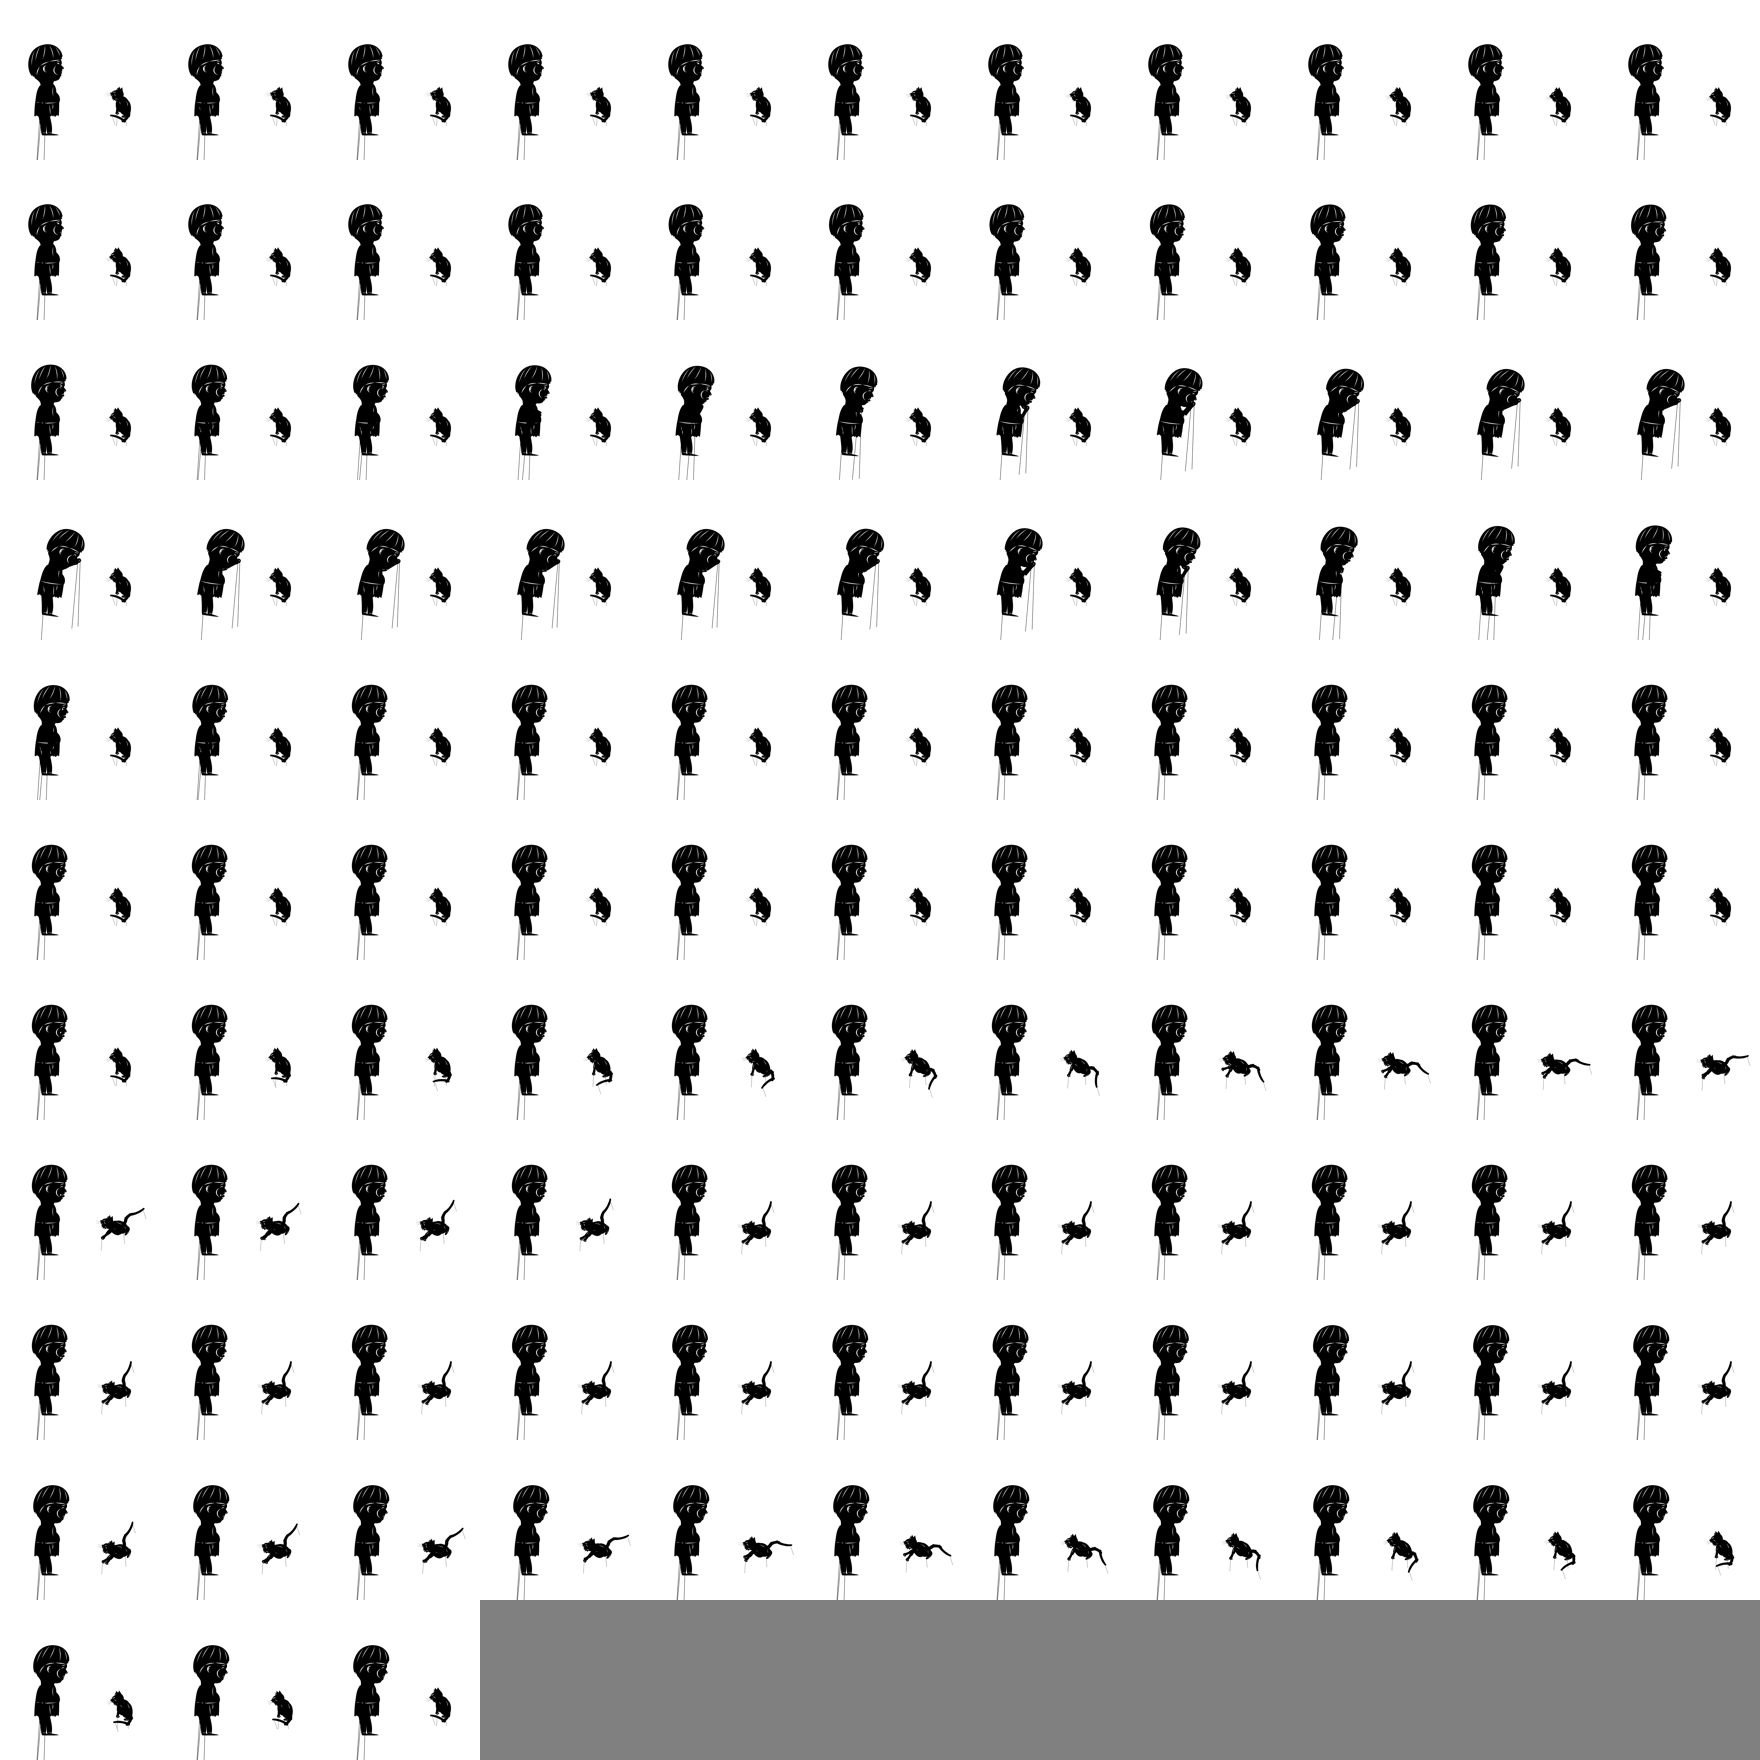
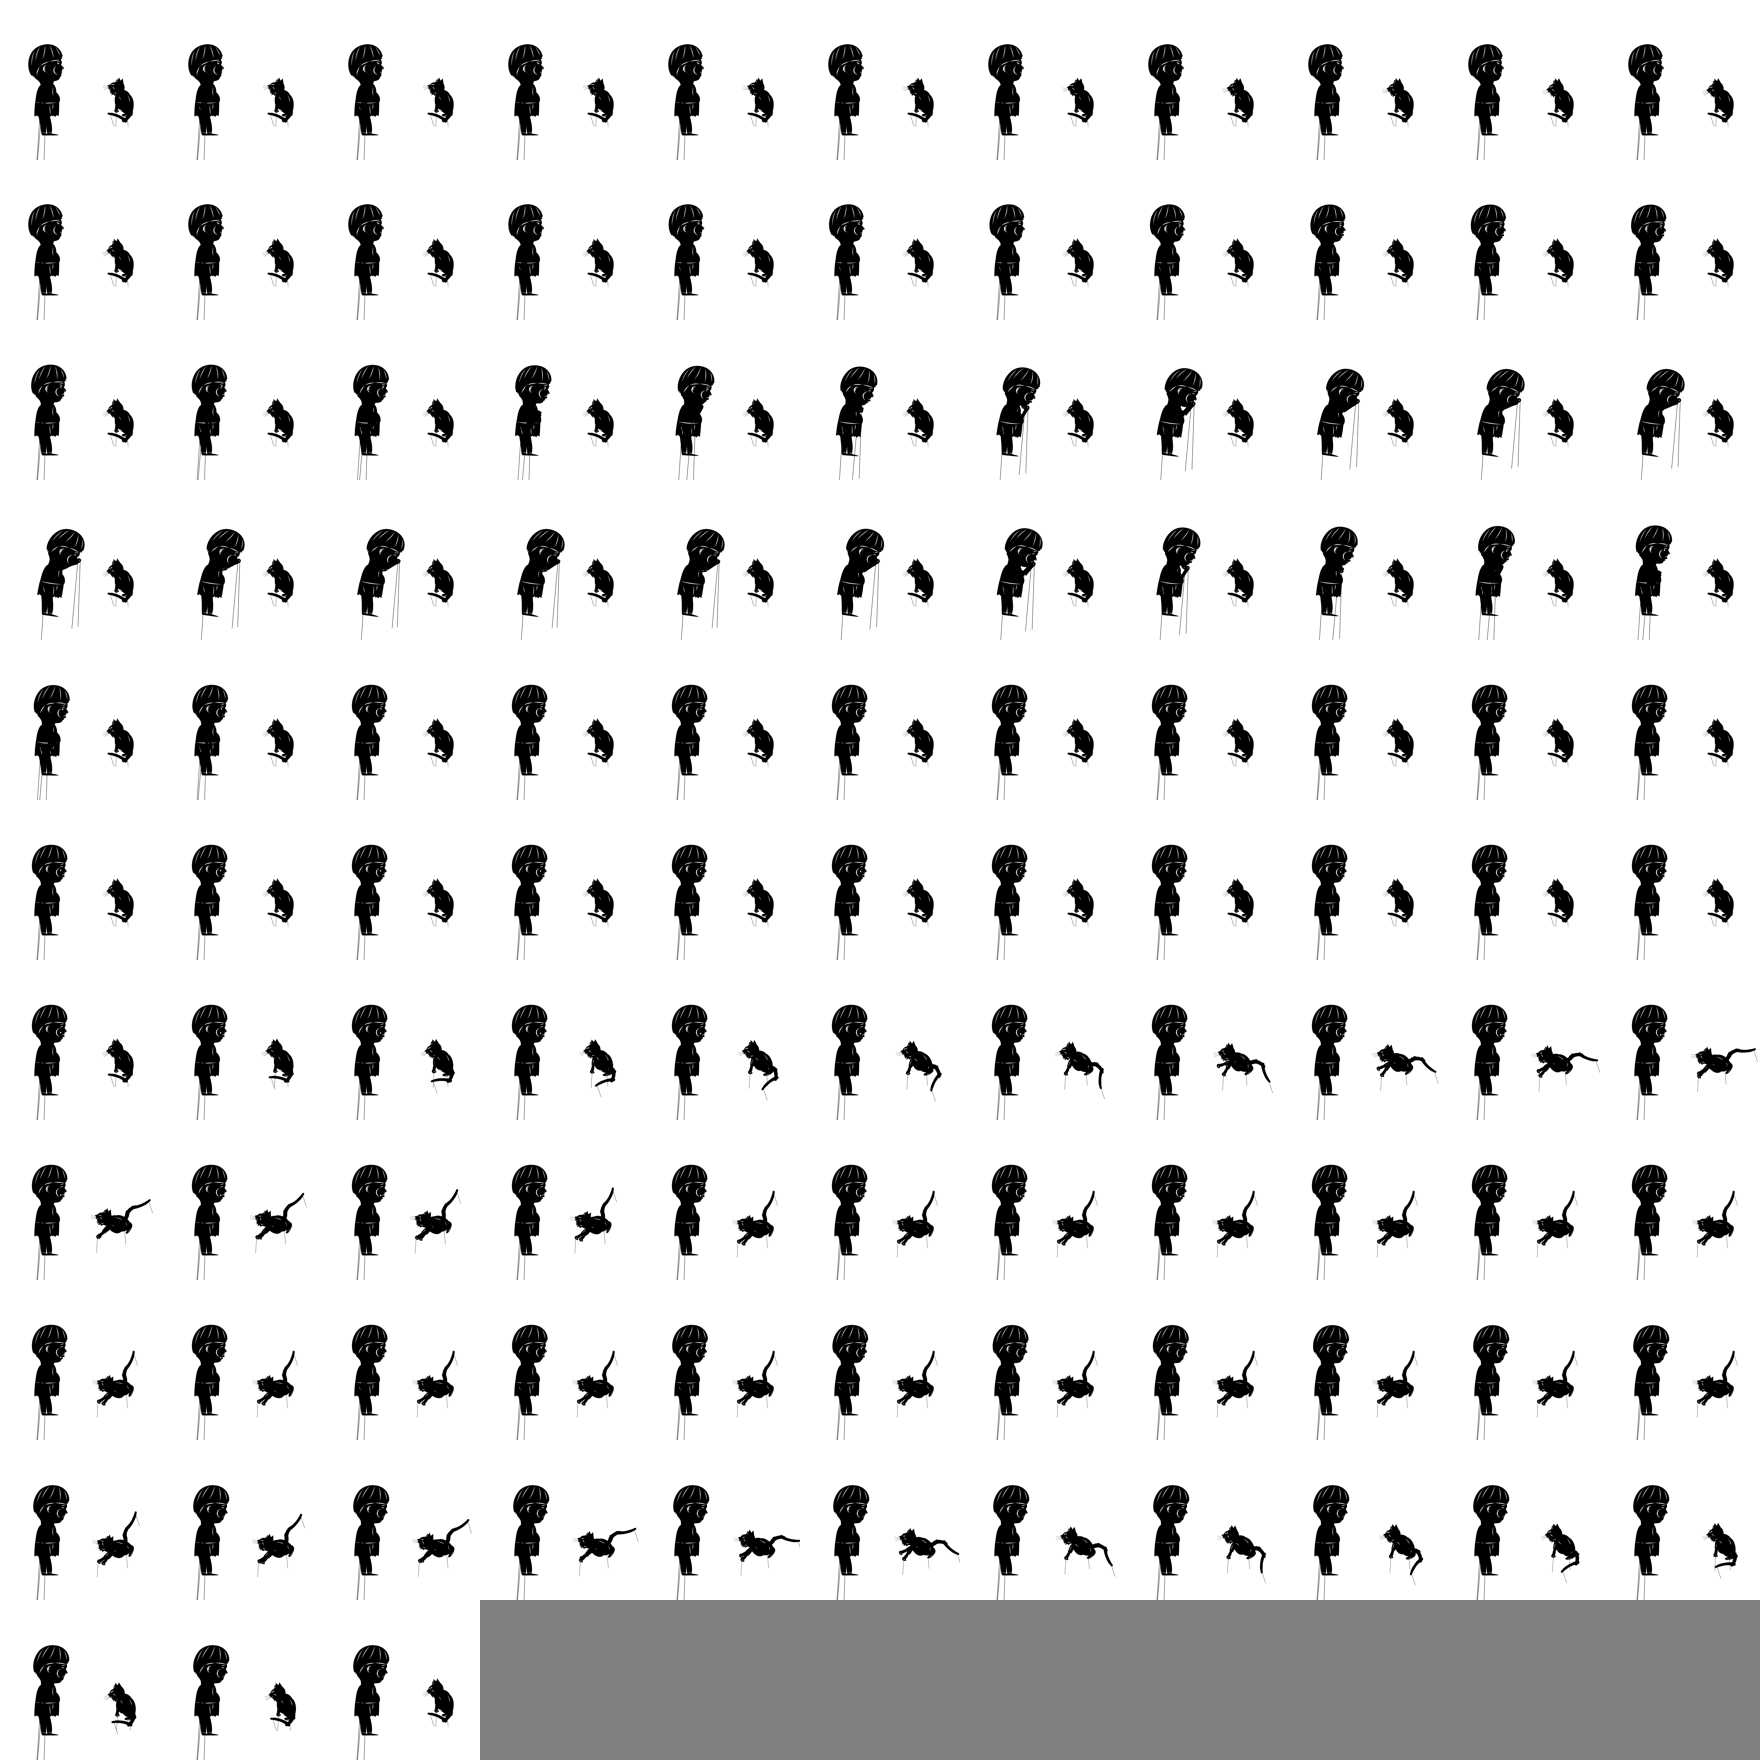
Boy+Puss composite: Puss 25% bigger (0.5625 of the visible boy, Gary); harness limit 0.60, 10/10; 113 cells 8192 SDF

diff --git a/Tools/ShadowGobo/Puppets/test_boy_puss_composite_offline.py b/Tools/ShadowGobo/Puppets/test_boy_puss_composite_offline.py
@@ -89,9 +89,12 @@ def run(manifest_path, report_path=None):
           boy["knee_cell_y"] > build.VISIBLE_BAND["bottom"],
           {"band": build.VISIBLE_BAND, "head_y": boy["head_top_cell_y"],
            "knee_y": boy["knee_cell_y"]})
-    check(results, "positive", "puss_head_not_above_boy_halfway",
-          puss["head_top_cell_y"] >= puss["boy_halfway_cell_y"],
-          {"puss_head_y": puss["head_top_cell_y"], "boy_halfway_y": puss["boy_halfway_cell_y"]})
+    limit_y = build.VISIBLE_BAND["bottom"] - build.PUSS_LIMIT_RATIO * boy["visible_height_cell"]
+    check(results, "positive", "puss_head_below_limit_line",
+          puss["head_top_cell_y"] >= limit_y - 1e-9,
+          {"puss_head_y": puss["head_top_cell_y"], "limit_y": limit_y, "ratio": puss["visible_height_ratio_to_boy"]})
+    check(results, "positive", "puss_is_25pct_bigger_than_v1",
+          abs(puss["visible_height_ratio_to_boy"] - 0.5625) < 0.01, puss["visible_height_ratio_to_boy"])
 
     too_large = dict(build.PUSS_PLACEMENT, scale=build.PUSS_PLACEMENT["scale"] * 1.45)
     pose = cat_rig.make_pose("sit_look_up")
@@ -99,8 +102,8 @@ def run(manifest_path, report_path=None):
     head = np.concatenate([np.asarray(outline) for name, outline, _cuts, _z in parts if name == "head"])
     bad_top = float(build.map_point((0.0, head[:, 1].min()), too_large)[1])
     check(results, "negative", "mis_scaled_puss_fails_halfway_limit",
-          bad_top < puss["boy_halfway_cell_y"],
-          {"bad_head_y": bad_top, "boy_halfway_y": puss["boy_halfway_cell_y"], "scale_multiplier": 1.45})
+          bad_top < limit_y,
+          {"bad_head_y": bad_top, "limit_y": limit_y, "scale_multiplier": 1.45})
 
     stretch = stretch_metrics()
     check(results, "positive", "stretch_is_one_connected_silhouette",

diff --git a/Tools/ShadowGobo/Puppets/build_boy_puss_composite.py b/Tools/ShadowGobo/Puppets/build_boy_puss_composite.py
@@ -60,7 +60,9 @@ BOY_PLACEMENT = {
 
 PUSS_SIT_TOP_Y = 96.31408575
 PUSS_SIT_BOTTOM_Y = 1029.99005309
-PUSS_VISIBLE_HEIGHT = 0.45 * (VISIBLE_BAND["bottom"] - BOY_HEAD_TARGET_Y)
+PUSS_HEIGHT_RATIO = 0.5625  # Gary 9 Oct: "puss could be about 25% bigger" (was 0.45 = "at most halfway")
+PUSS_LIMIT_RATIO = 0.60    # harness ceiling for the Puss head, as a fraction of the visible boy
+PUSS_VISIBLE_HEIGHT = PUSS_HEIGHT_RATIO * (VISIBLE_BAND["bottom"] - BOY_HEAD_TARGET_Y)
 PUSS_SCALE = PUSS_VISIBLE_HEIGHT / (PUSS_SIT_BOTTOM_Y - PUSS_SIT_TOP_Y)
 PUSS_PLACEMENT = {
     "anchor_world": (500.0, PUSS_SIT_BOTTOM_Y),
